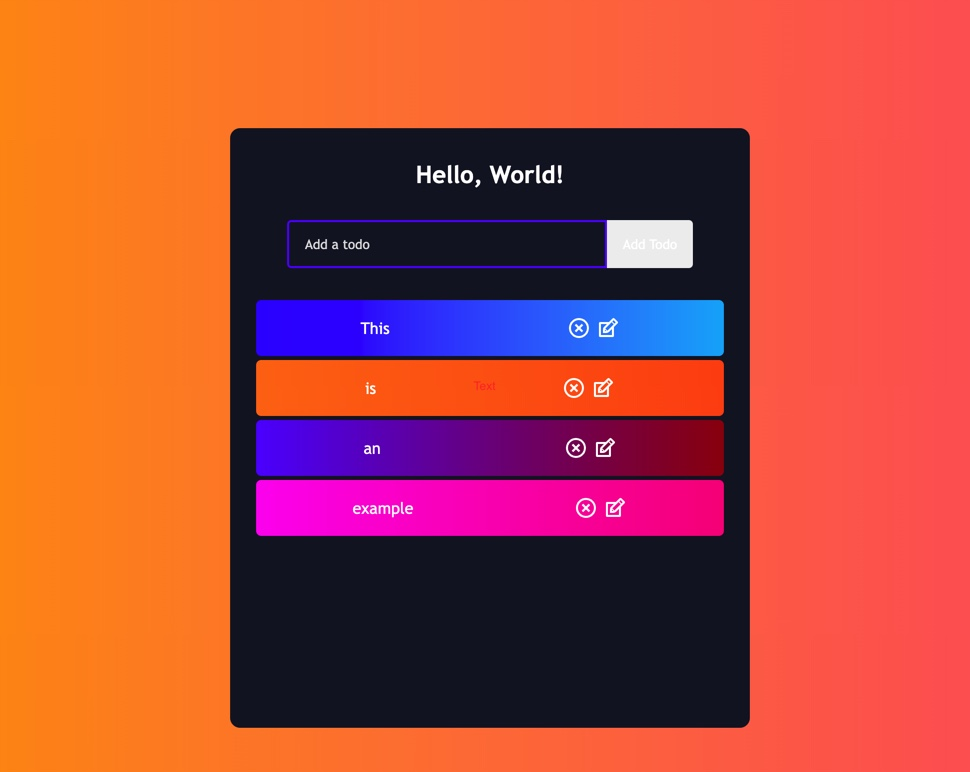
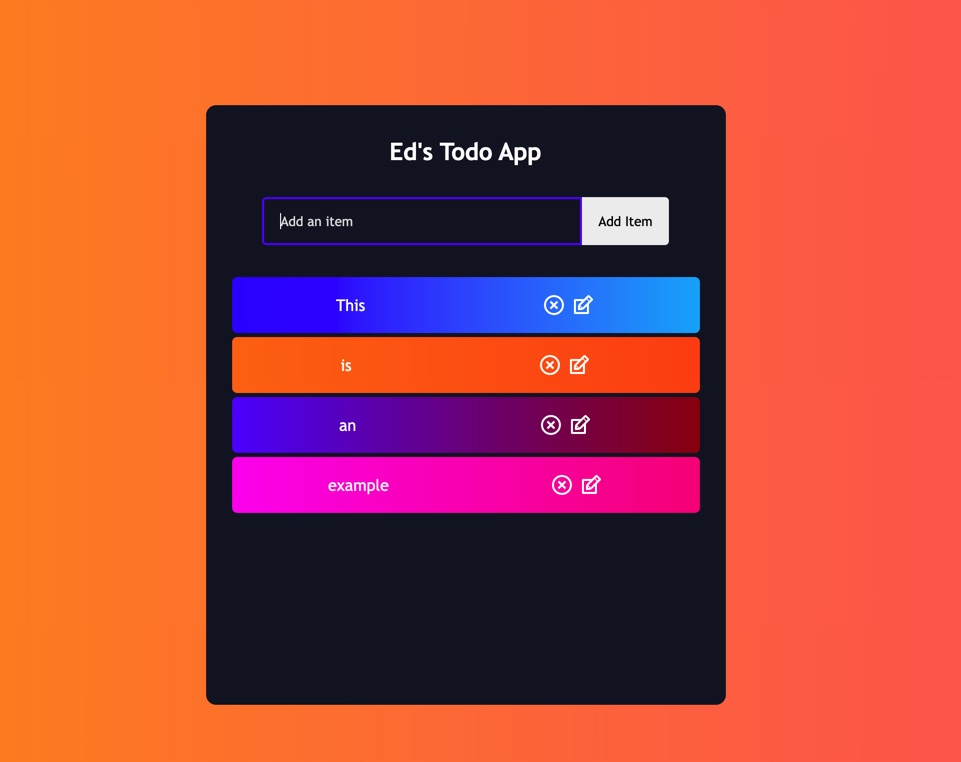
updating readme

Changed region(s): [[0.1873, 0.1207, 0.7804, 0.9659]]

diff --git a/src/Components/TodoForm.js b/src/Components/TodoForm.js
@@ -34,14 +34,14 @@ function TodoForm(props) {
                 ref={inputRef}
             />
             <button className="todo-button edit">
-                Update
+                Update item
             </button>
             </>
             ) : (       
                 <>    
                 <input 
                 type="text" 
-                placeholder="Add a todo" 
+                placeholder="Add an item" 
                 value={input}
                 name="text"
                 className="todo-input"
@@ -49,7 +49,7 @@ function TodoForm(props) {
                 ref={inputRef}
             />
             <button className="todo-button">
-                Add Todo
+                Add item
             </button>
                 </> 
             )}
@@ -59,16 +59,3 @@ function TodoForm(props) {
 }
 
 export default TodoForm
-
-//     < input
-// type = "text"
-// placeholder = "Add a todo"
-// value = { input }
-// name = "text"
-// className = "todo-input"
-// onChange = { handleChange }
-// ref = { inputRef }
-//     />
-//     <button className="todo-button">
-//         Add Todo
-//     </button>

diff --git a/src/App.css b/src/App.css
@@ -55,19 +55,32 @@ h1 {
 	color: #e2e2e2;
 }
 
+button{
+	background-color: none;
+}
+
 .todo-button {
-	padding: 16px;
-	border: none;
-	border-radius: 0 4px 4px 0;
-	cursor: pointer;
-	outline: none;
 	background: linear-gradient(
 		90%,
 		rgba(93, 12, 255, 1) 0%,
 		rgba(155, 0, 250, 1) 100%
 	);
-	color: #fff;
+	padding: 16px;
+	border: none;
+	border-radius: 0 4px 4px 0;
+	cursor: pointer;
+	outline: none;
+	
+	/* color: #fff; */
 	text-transform: capitalize;
+}
+
+.todo-button::after {
+	background: linear-gradient(
+		90%,
+		rgba(93, 12, 255, 1) 0%,
+		rgba(155, 0, 250, 1) 100%
+	);
 }
 
 .todo-input.edit {

diff --git a/src/Components/TodoList.js b/src/Components/TodoList.js
@@ -38,7 +38,7 @@ function TodoList() {
     
     return (
         <div>
-            <h1>Hello, World!</h1>
+            <h1>Ed's Todo App</h1>
             <TodoForm onSubmit={addTodo}/>
             <Todo
                 todos={todos}

diff --git a/README.md b/README.md
@@ -5,7 +5,7 @@ This is a frontend mininal viable product todo app in which the user can create,
 
 Challenges:
 
-I faced a few challenges. One of the chanllenges I faced was concept of passing down a Prop from TodoFrom.js to Form.js. It took time for me to realize that props are passed down as an object that can be deconstructed. The deconstructions can be seen in row 8 of Todo.js.
+I faced a few challenges. One of the chanllenges I faced was concept of passing down a Prop from TodoFrom.js to Form.js. It took time for me to realize that props are passed down as an object that can be deconstructed. The deconstructions can be seen in row 8 of Todo.js. Another challenge was with styling. I was unable to figure out why I cannot override the first button's background even though I made changes targeting its className.
 
 
 ![Alt text](./src/Images/frontpage.jpeg  "Optional Title")
@@ -15,4 +15,5 @@ I faced a few challenges. One of the chanllenges I faced was concept of passing 
 
 References and sources for help:
 Youtube - Brian Design - React Todo List App tutorials
+
 General Assembly - Teacher Assistance
